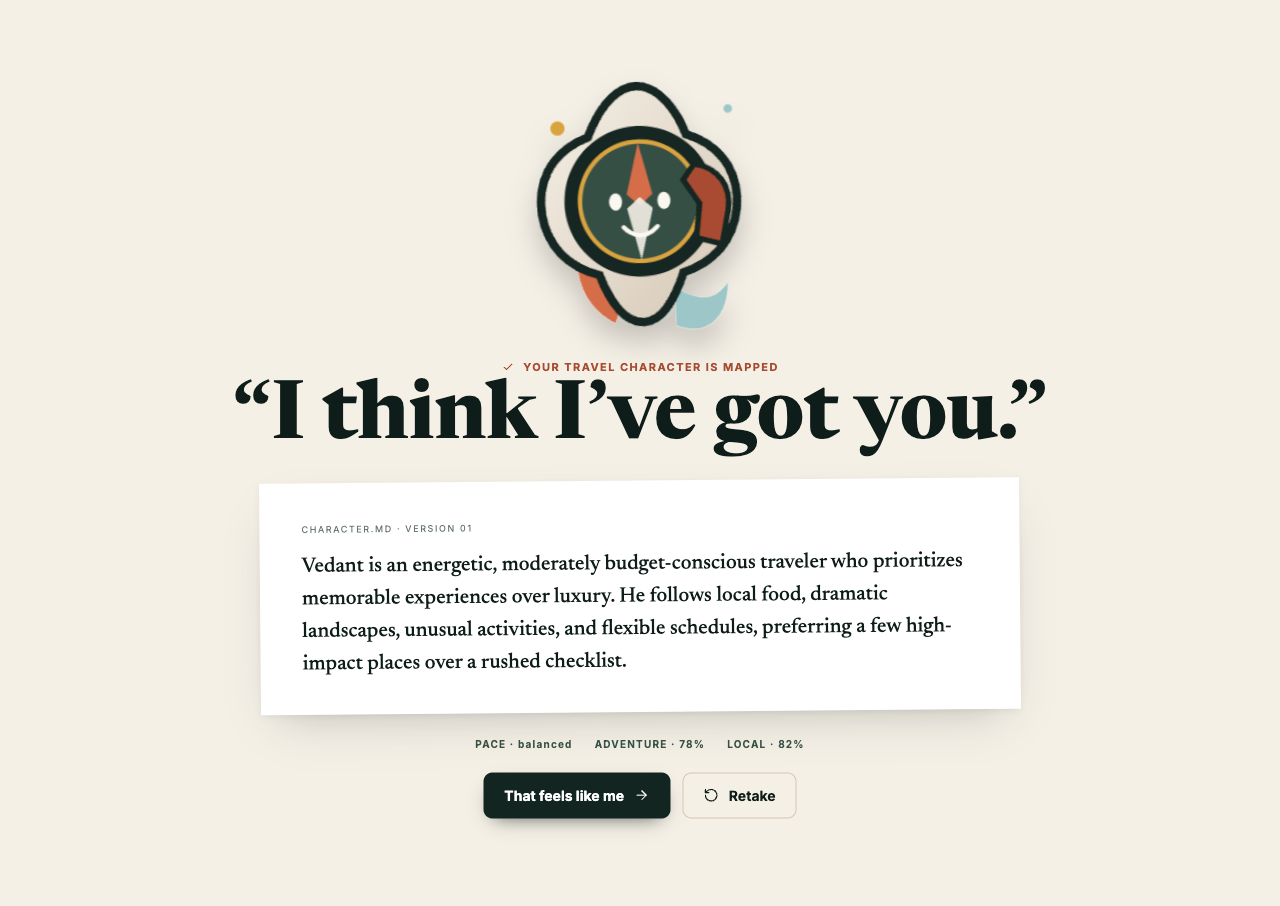
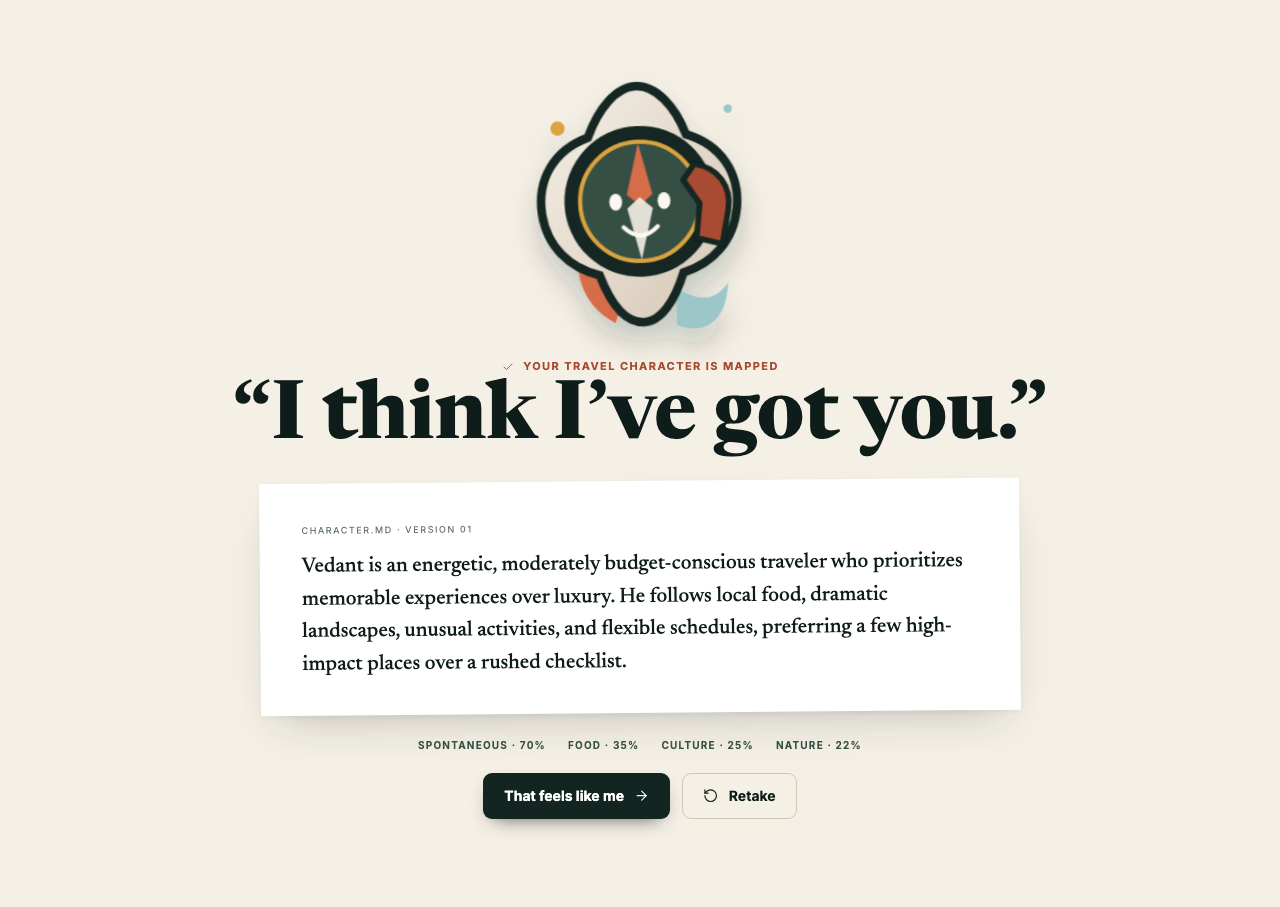
docs: document personalization architecture and flows

diff --git a/travelbuddy/README.md b/travelbuddy/README.md
@@ -6,7 +6,7 @@ The frontend is React 19 + TypeScript + Vite and is served by the existing FastA
 
 ## Setup
 
-Requirements: Python 3.11+, Node.js 20+, and an OpenAI API key.
+Requirements: Python 3.11+, Node.js 20+, PostgreSQL 17 (or Docker), and an OpenAI API key.
 
 ```bash
 cd travelbuddy
@@ -14,6 +14,8 @@ python3 -m venv .venv
 source .venv/bin/activate
 pip install -r requirements-dev.txt
 cp .env.example .env
+docker compose up -d db
+alembic upgrade head
 cd frontend
 npm install
 npm run build
@@ -37,18 +39,25 @@ npm run dev
 
 Vite proxies `/api` requests to FastAPI on port 8000.
 
+If PostgreSQL already runs locally, set `DATABASE_URL` to that database instead of starting Docker. To import the old SQLite accounts and profiles once:
+
+```bash
+.venv/bin/python scripts/migrate_sqlite_to_postgres.py --sqlite-path data/travelbuddy.db
+```
+
 ## User flow
 
 1. Register or sign in.
-2. Complete the six-turn, mascot-led onboarding conversation.
-3. Review the generated persistent character profile.
+2. Complete the nine-question, mascot-led onboarding conversation.
+3. Review the generated `character.md` sketch and editable preference controls.
 4. Enter destination, dates, budget, travelers, and trip interests.
 5. Watch the four research agents finish independently.
 6. Compare the top three profile-ranked choices in each category.
 7. Select preferred options and generate the itinerary.
-8. Edit or retake the character profile at any time.
+8. After the trip, submit one 1–5 check-in so the saved choices and rating gently tune the profile weights.
+9. Edit or retake the character profile at any time.
 
-The natural-language profile and structured traits are stored in SQLite. It is generated once, included in research/ranking, learned from after itinerary creation, and is not regenerated on ordinary visits.
+PostgreSQL stores two separate profile artifacts: natural-language `character.md` guides research, while structured weights drive deterministic ranking. The character sketch is generated once and is not regenerated on ordinary visits. Questionnaire drafts, sessions, trips, ratings, and an idempotent preference-event ledger are durable across restarts.
 
 ## Character profile API
 
@@ -56,13 +65,16 @@ All profile and trip endpoints require the Bearer token returned by the auth end
 
 | Method | Endpoint | Purpose |
 | --- | --- | --- |
-| `POST` | `/api/profile/chat` | Continue the conversational intake |
+| `GET` | `/api/profile/intake` | Read or resume the nine-question draft |
+| `PUT` | `/api/profile/intake/answers/{questionId}` | Validate and save one answer |
+| `POST` | `/api/profile/intake/complete` | Generate `character.md` and compile weights |
+| `DELETE` | `/api/profile/intake` | Clear the draft/profile and retake onboarding |
 | `GET` | `/api/profile/character` | Read the stable character-profile contract |
 | `PUT` | `/api/profile/character` | Edit the summary and structured traits |
 | `POST` | `/api/profile/character/feedback` | Persist a recommendation like/dislike signal |
 | `POST` | `/api/profile/character/reset` | Delete the profile and retake onboarding |
 
-The legacy `GET /api/profile` contract remains available for compatibility.
+The legacy `GET /api/profile` and `/api/profile/chat` contracts remain available for compatibility.
 
 ## Trip API flow
 
@@ -73,6 +85,8 @@ The legacy `GET /api/profile` contract remains available for compatibility.
 | `POST` | `/api/trip/{id}/select` | Validate and save recommendation IDs |
 | `POST` | `/api/trip/{id}/itinerary` | Stream itinerary generation with SSE |
 | `GET` | `/api/trip/{id}` | Read current trip state |
+| `GET` | `/api/trips/pending-check-in` | Find the newest completed, unrated trip |
+| `PUT` | `/api/trip/{id}/post-trip-feedback` | Save an idempotent 1–5 post-trip rating |
 
 ## Quality checks
 
@@ -92,11 +106,12 @@ The Playwright suite launches FastAPI on port 8010, verifies onboarding, returni
 
 ## Current backend boundaries
 
-- Trip state remains in memory and expires after 24 hours; profiles and accounts persist in SQLite.
 - “Show alternatives” reruns the existing research pipeline because the backend does not expose pagination.
-- Recommendation feedback is stored in the taste profile and affects the next research/ranking run.
+- Recommendation candidates depend on agent-provided controlled tags; unverified dietary compatibility is filtered rather than guessed.
 - Share copies the current URL and export uses the browser’s print/PDF support; there is no hosted share document or booking provider integration.
 - Destination imagery is intentionally represented with map motifs until a licensed image/search proxy is exposed by the backend.
+
+See [docs/PERSONALIZATION.md](docs/PERSONALIZATION.md) for the questionnaire, ranker, learning formula, database layout, and API contracts.
 
 ## Reliability baseline
 

diff --git a/travelbuddy/docs/PERSONALIZATION.md b/travelbuddy/docs/PERSONALIZATION.md
@@ -1,0 +1,64 @@
+# Personalization architecture
+
+TravelBuddy keeps discovery and ranking separate:
+
+1. `character.md` is concise natural-language context. It is sent into the existing context-brief/search flow.
+2. Profile weights are validated JSON stored in PostgreSQL JSONB. Only this structured data is scored or learned.
+
+The questionnaire’s free-text “perfect moment” influences the character sketch only. It is never converted into a score. Dealbreakers and dietary requirements are controlled hard constraints, not weights.
+
+## Nine-question profile
+
+The saved answers cover planning style, top three vibes, splurge/save categories, start time, traveler archetype, usual party, food adventurousness, hard constraints, and a free-text perfect moment. Draft answers are saved after every question and resume after refresh or restart.
+
+Completion deterministically compiles the weights. The LLM may polish the character prose, but it cannot create or modify the structured values. A deterministic sketch is used if that polish fails. Completion retries return the existing profile without another model call.
+
+## Ranking
+
+Each research agent requests eight factual candidates and supplies controlled vibe, constraint, and dietary tags. Hard conflicts are removed first. The remaining candidates receive a 0–1 score:
+
+```text
+score = 0.30 × budget_fit
+      + taste_weight × profile_affinity
+      + rating_weight × damped_review_rating
+      + 0.15 × trip_vibe_match
+```
+
+`taste_weight` is at most 0.30 and grows with profile confidence. Any unused taste weight moves to rating quality. Review ratings use a Bayesian-style prior so a 5.0 with very few reviews does not automatically beat a well-supported 4.7. Category budget allowances respect the user’s splurge/save choices.
+
+After sorting, only the top three options in each category are returned.
+
+## Learning loop
+
+Learning happens after a completed trip when the user submits a 1–5 rating:
+
+- Selected recommendation tags receive a small positive signal.
+- Rating is centered at 3: 3 is neutral, 4–5 reinforce selected tags, and 1–2 reduce them.
+- Options not selected are ignored; they are not treated as dislikes.
+- Per-vibe changes are capped and the vector is normalized back to a total of 1.
+- A server-derived event key makes retries idempotent, so the same trip cannot teach the profile twice.
+
+Explicit card likes/dislikes are resolved from an owned trip and recommendation ID. The browser never submits trusted tags or weight changes.
+
+## PostgreSQL layout
+
+- `users`: accounts and password hashes
+- `sessions`: hashed bearer tokens with expiry
+- `profiles`: versioned `character_md` and JSONB weights
+- `profile_intakes`: resumable nine-question drafts
+- `trips`: durable agent, selection, and itinerary snapshots
+- `trip_feedback`: one post-trip rating per user/trip
+- `preference_events`: immutable, idempotent learning audit entries
+
+Trip changes use row locks, and research uses an expiring per-run lease so multiple workers cannot overwrite each other or leave a trip permanently stuck after a crash. Profile edits use optimistic version checks.
+
+## Deployment
+
+Run schema changes through Alembic:
+
+```bash
+docker compose up -d db
+.venv/bin/alembic upgrade head
+```
+
+Production must set `DATABASE_URL`, `OPENAI_API_KEY`, restricted `ALLOWED_ORIGINS`, and non-default PostgreSQL credentials. SQLite remains available only as a unit-test/local compatibility path.

diff --git a/travelbuddy/docs/FRONTEND_ARCHITECTURE.md b/travelbuddy/docs/FRONTEND_ARCHITECTURE.md
@@ -10,21 +10,22 @@
 
 ## Application flow
 
-`App.tsx` is the small orchestration boundary. It restores the Bearer session, loads the profile once, optionally restores the last in-memory trip, and moves between planner, workspace, and itinerary stages. Domain UI stays in dedicated components:
+`App.tsx` is the small orchestration boundary. It restores the Bearer session, loads the profile once, optionally restores the last durable trip, and moves between planner, workspace, and itinerary stages. Domain UI stays in dedicated components:
 
 - `Mascot.tsx`: original Tavi SVG with eight state classes
-- `Onboarding.tsx`: one-question conversation, quick replies, free text, profile reveal
+- `Onboarding.tsx`: deterministic nine-question conversation, saved progress, profile reveal
 - `TripForm.tsx`: validated trip inputs matching `TripPreferences`
 - `Workspace.tsx`: agent activity, category tabs, score/rank cards, selection docket
-- `ProfileDrawer.tsx`: summary editing, normalized traits, retake flow
-- `ItineraryView.tsx`: day timeline, reorder controls, route notes, print layout
+- `ProfileDrawer.tsx`: character prose, structured weights, hard boundaries, retake flow
+- `PostTripCheckIn.tsx`: accessible, submit-once 1–5 learning signal
+- `ItineraryView.tsx`: day timeline, reorder controls, route notes, rating, print layout
 - `UI.tsx`: shared buttons, drawers, chat bubbles, loading/empty/error states
 
 `services/api.ts` is the only frontend networking module. It owns authorization headers, JSON errors, and POST-based SSE parsing. Components never contain raw `fetch` calls.
 
 ## Profile integration
 
-The database still stores the profile as a `character.md`-style sketch (`sketch_md`) plus `taste_json`. The new adapter returns a stable UI shape with summary, normalized traits, raw answers, version, and timestamps. Existing `likes`, `dislikes`, diet, and pace values remain available to the ranker; editable adventure, comfort, spontaneity, local-vs-tourist, food, nightlife, nature, social, and budget traits now contribute directly to score fit. Card feedback is persisted as a weighted taste signal before alternatives are refreshed.
+PostgreSQL stores a versioned `character_md` sketch and structured JSONB weights. The adapter returns camelCase summary, weights, raw answers, version, and timestamps. The sketch guides search; controlled vibe weights, spend choices, pace, dietary needs, and dealbreakers guide deterministic ranking. Card feedback is resolved by owned trip/recommendation IDs, while selected choices and the post-trip rating are learned together after the trip.
 
 ## Design system
 

diff --git a/travelbuddy/docs/RELIABILITY.md b/travelbuddy/docs/RELIABILITY.md
@@ -1,6 +1,6 @@
 # Reliability baseline
 
-This document describes the lightweight reliability layer used by the current MVP. It deliberately does not introduce PostgreSQL, a job queue, supplier integrations, payments, or distributed booking workflows.
+This document describes the reliability layer used by the current MVP. PostgreSQL now provides shared sessions, profiles, trip snapshots, resumable intake, and an idempotent learning ledger. Job queues, supplier integrations, payments, and distributed booking workflows remain out of scope.
 
 ## Public error contract
 
@@ -34,16 +34,15 @@ Successful research categories remain available when another category fails. The
 - Long-running research streams use the backend's existing OpenAI timeouts and bounded model fallback; the browser does not blindly replay POST requests.
 - Rate limits, provider timeouts, and temporary provider failures may move to the configured fallback model.
 - Authentication, permissions, quota exhaustion, malformed inputs, and non-temporary errors are not retried automatically.
-- Recommendation feedback is shown as saved only after the API confirms it.
+- Recommendation and post-trip feedback are shown as saved only after an idempotent database transaction confirms them.
+- Research runs use expiring ownership leases, so a second worker cannot overwrite a live run and a crashed worker cannot strand the trip forever.
 
 ## Deliberately deferred
 
 The following remain part of the planned backend phase and are not hidden by this baseline:
 
-- Trips and sessions are still process-local prototype state.
-- Profiles and users still use SQLite.
 - There is no durable background job queue.
 - There is no provider-specific circuit breaker or operational alerting service.
 - There is no supplier booking, payment, refund, or compensation workflow.
 
-Before a multi-worker deployment, sessions and trips must move to shared storage. Before real booking, retry and reconciliation rules must be designed separately for each supplier operation.
+Before real booking, retry and reconciliation rules must be designed separately for each supplier operation.
